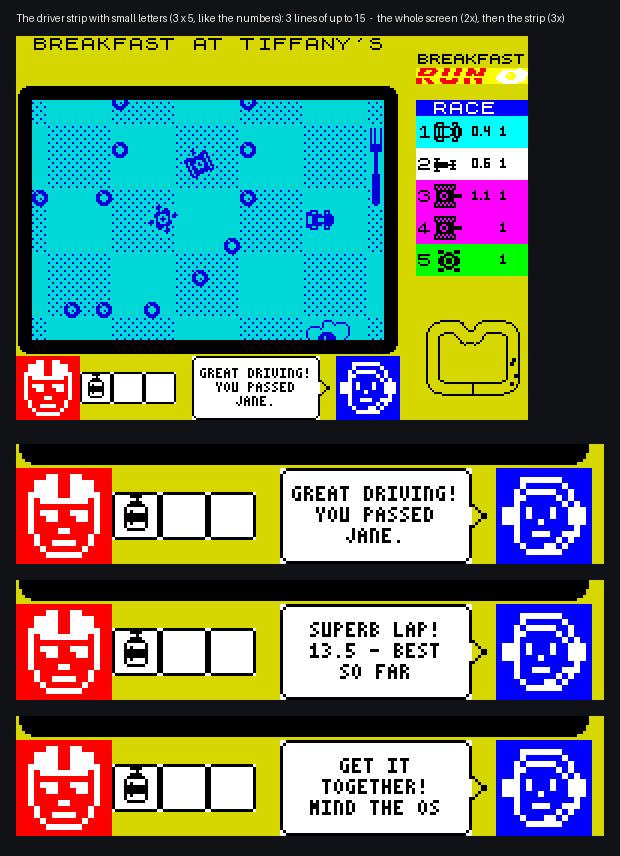
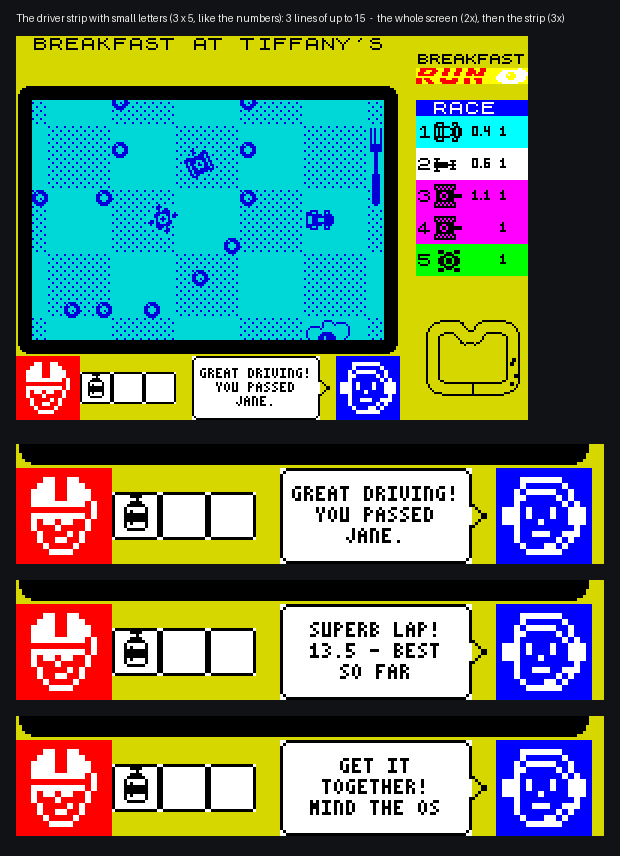
Grant's new YOU face; mock-up: a smaller radio wave of plain lines
Claude-Session: https://claude.ai/code/session_01476U897R8mVFSH3iYyydqW

diff --git a/tools/make_strip_mockups.py b/tools/make_strip_mockups.py
@@ -133,37 +133,29 @@ out.paste(full, (16, 36)); y = 36 + full.height + 24
 for s in strips: out.paste(s, (16, y)); y += s.height + 16
 o = os.path.join(ROOT, 'docs', 'design', 'driver_strip_small.png'); out.save(o); print('wrote', os.path.normpath(o))
 
-# ---- the radio wave, as TV shows team radio (Grant's reference: tall bars of varied
-# heights about a mid line, rounded ends, dark and grey): 2-px bars, the grey ones
-# dotted, moving while the crew chief talks, then flat. 2 lines of small letters below.
+# ---- the radio wave, as TV shows team radio (Grant: small, just vertical lines): 13
+# one-pixel lines about a mid line, up to 7 px tall, moving while the crew chief
+# talks, then flat. 3 lines of small letters below.
 import random
-def strip_radio(lines, bars):
+def strip_radio(lines, heights):
     bits, attr = strip(())
-    x0 = 88
-    mid = 168
-    n = len(bars)
-    left = x0 + 1 + (62 - (n * 3 - 1)) // 2
-    for i, (h, grey) in enumerate(bars):
-        x = left + i * 3
-        for y in range(mid - h, mid + h + 1):
-            for dx in (0, 1):
-                if abs(y - mid) == h and h > 0 and dx == 1: continue      # rounded ends
-                if grey and (y + dx) % 2: continue                          # grey: dotted
-                bits[y, x + dx] = 1
-    top = 179
+    x0, mid, n = 88, 165, len(heights)
+    left = x0 + 1 + (62 - (n * 2 - 1)) // 2
+    for i, h in enumerate(heights):
+        bits[mid - h:mid + h + 1, left + i * 2] = 1
     for i, line in enumerate(lines):
         w = len(line) * 4 - 1
-        stext(bits, line, x0 + 1 + (62 - w) // 2, top + i * 6)
+        stext(bits, line, x0 + 1 + (62 - w) // 2, 171 + i * 6)
     return bits, attr
 random.seed(11)
 frames = []
 for f in range(18):                                 # talking: 14 pictures, then quiet
     if f < 14:
-        bars = [(random.choice((1, 2, 3, 4, 5, 6)), random.random() < 0.55) for _ in range(20)]
-        bars = [(min(h, 2 + min(i, 19 - i)), g) for i, (h, g) in enumerate(bars)]
+        hs = [random.choice((0, 1, 1, 2, 2, 3)) for _ in range(13)]
+        hs = [min(h, 1 + min(i, 12 - i)) for i, h in enumerate(hs)]
     else:
-        bars = [(0, False)] * 20
-    frames.append(render(*strip_radio(('PUSH! PUSH!', 'HE IS 0.4 AHEAD'), bars), 3).crop((0, 152 * 3, 196 * 3, 192 * 3)))
+        hs = [0] * 13
+    frames.append(render(*strip_radio(('PUSH! PUSH!', 'HE IS 0.4 AHEAD', 'GO GET HIM'), hs), 3).crop((0, 152 * 3, 196 * 3, 192 * 3)))
 o = os.path.join(ROOT, 'docs', 'design', 'radio_wave.gif')
 frames[0].save(o, save_all=True, append_images=frames[1:], duration=[90] * 14 + [400] * 4, loop=0)
 print('wrote', os.path.normpath(o))

diff --git a/PROJECT-LOG.md b/PROJECT-LOG.md
@@ -667,3 +667,7 @@ Authoritative log for this workstream (house rule 5.2). Newest at the bottom. Ti
   the mock-ups draw it from there.
 - Grant: centre the crew chief in his blue square. Faces in the strip are now centred by their
   ink in their 32 x 32 squares (the crew chief 3 px lower; yours unchanged within a pixel).
+- Grant's updated face for YOU (editor screenshot, read cell by cell) - in the game's race order
+  and the strip. Checked on the grid.
+- Grant: the wave much smaller, just vertical lines (no dotted ones): 13 one-pixel lines up to
+  7 px tall; 3 lines of small letters fit again. docs/design/radio_wave.gif.
